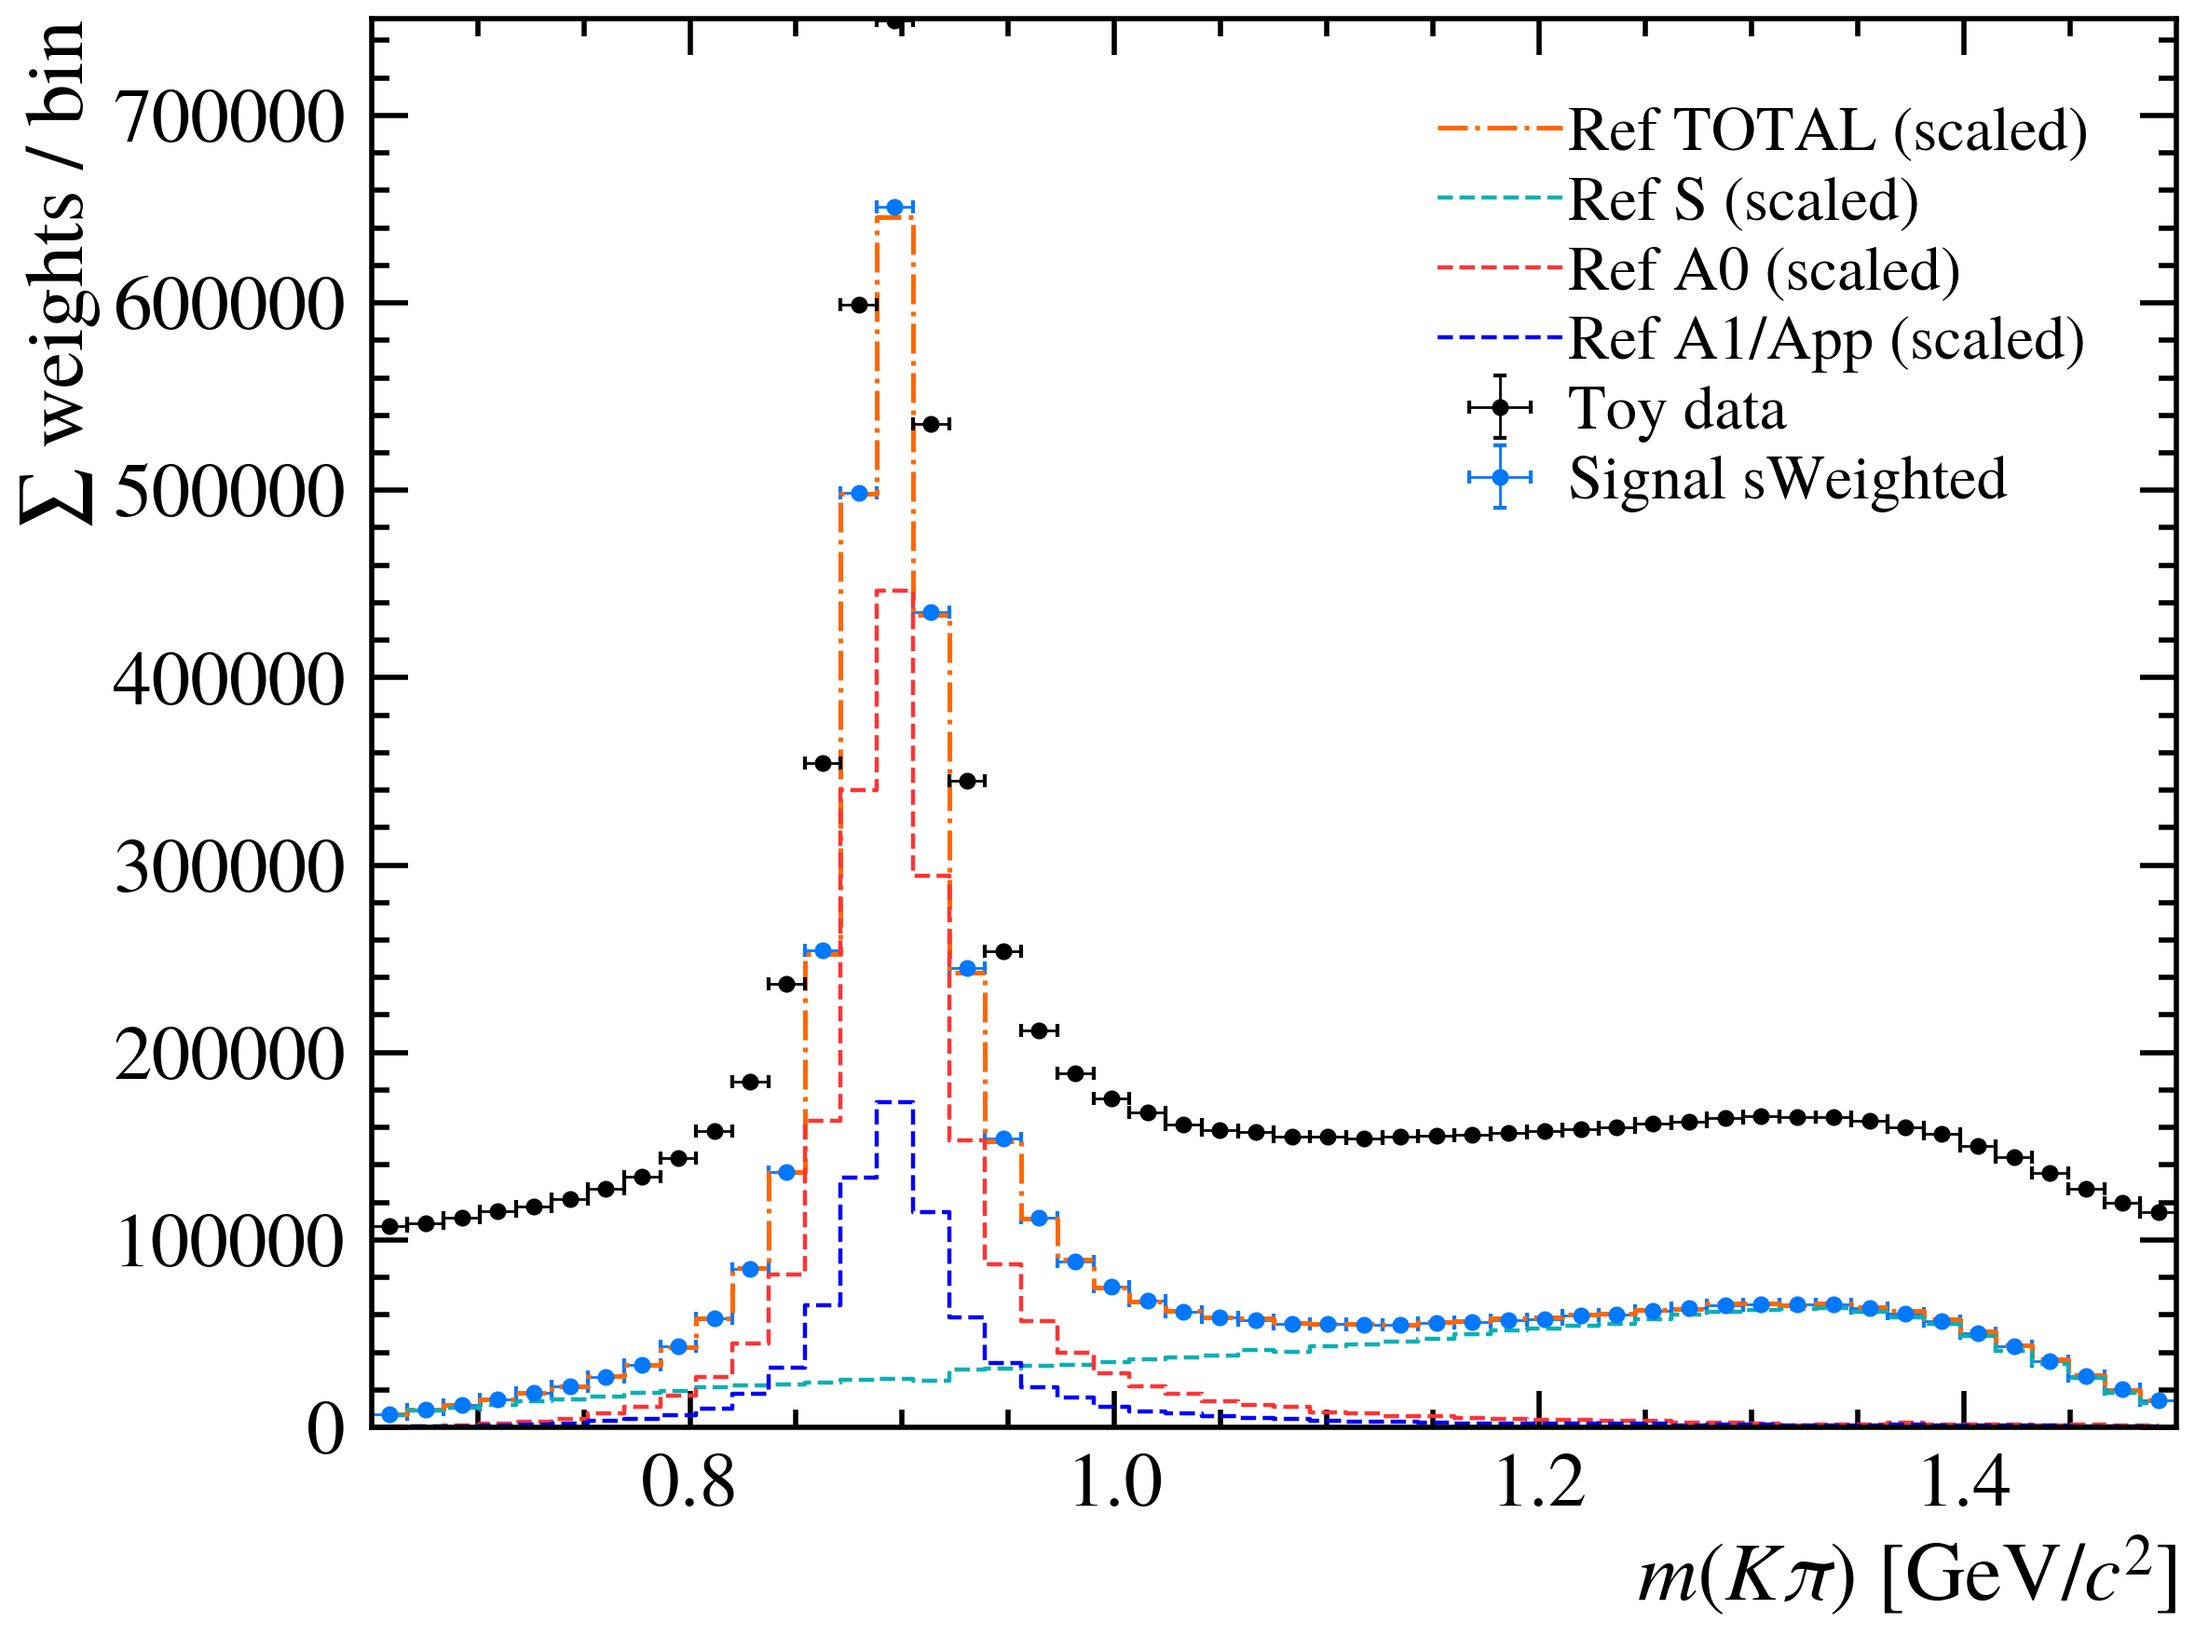
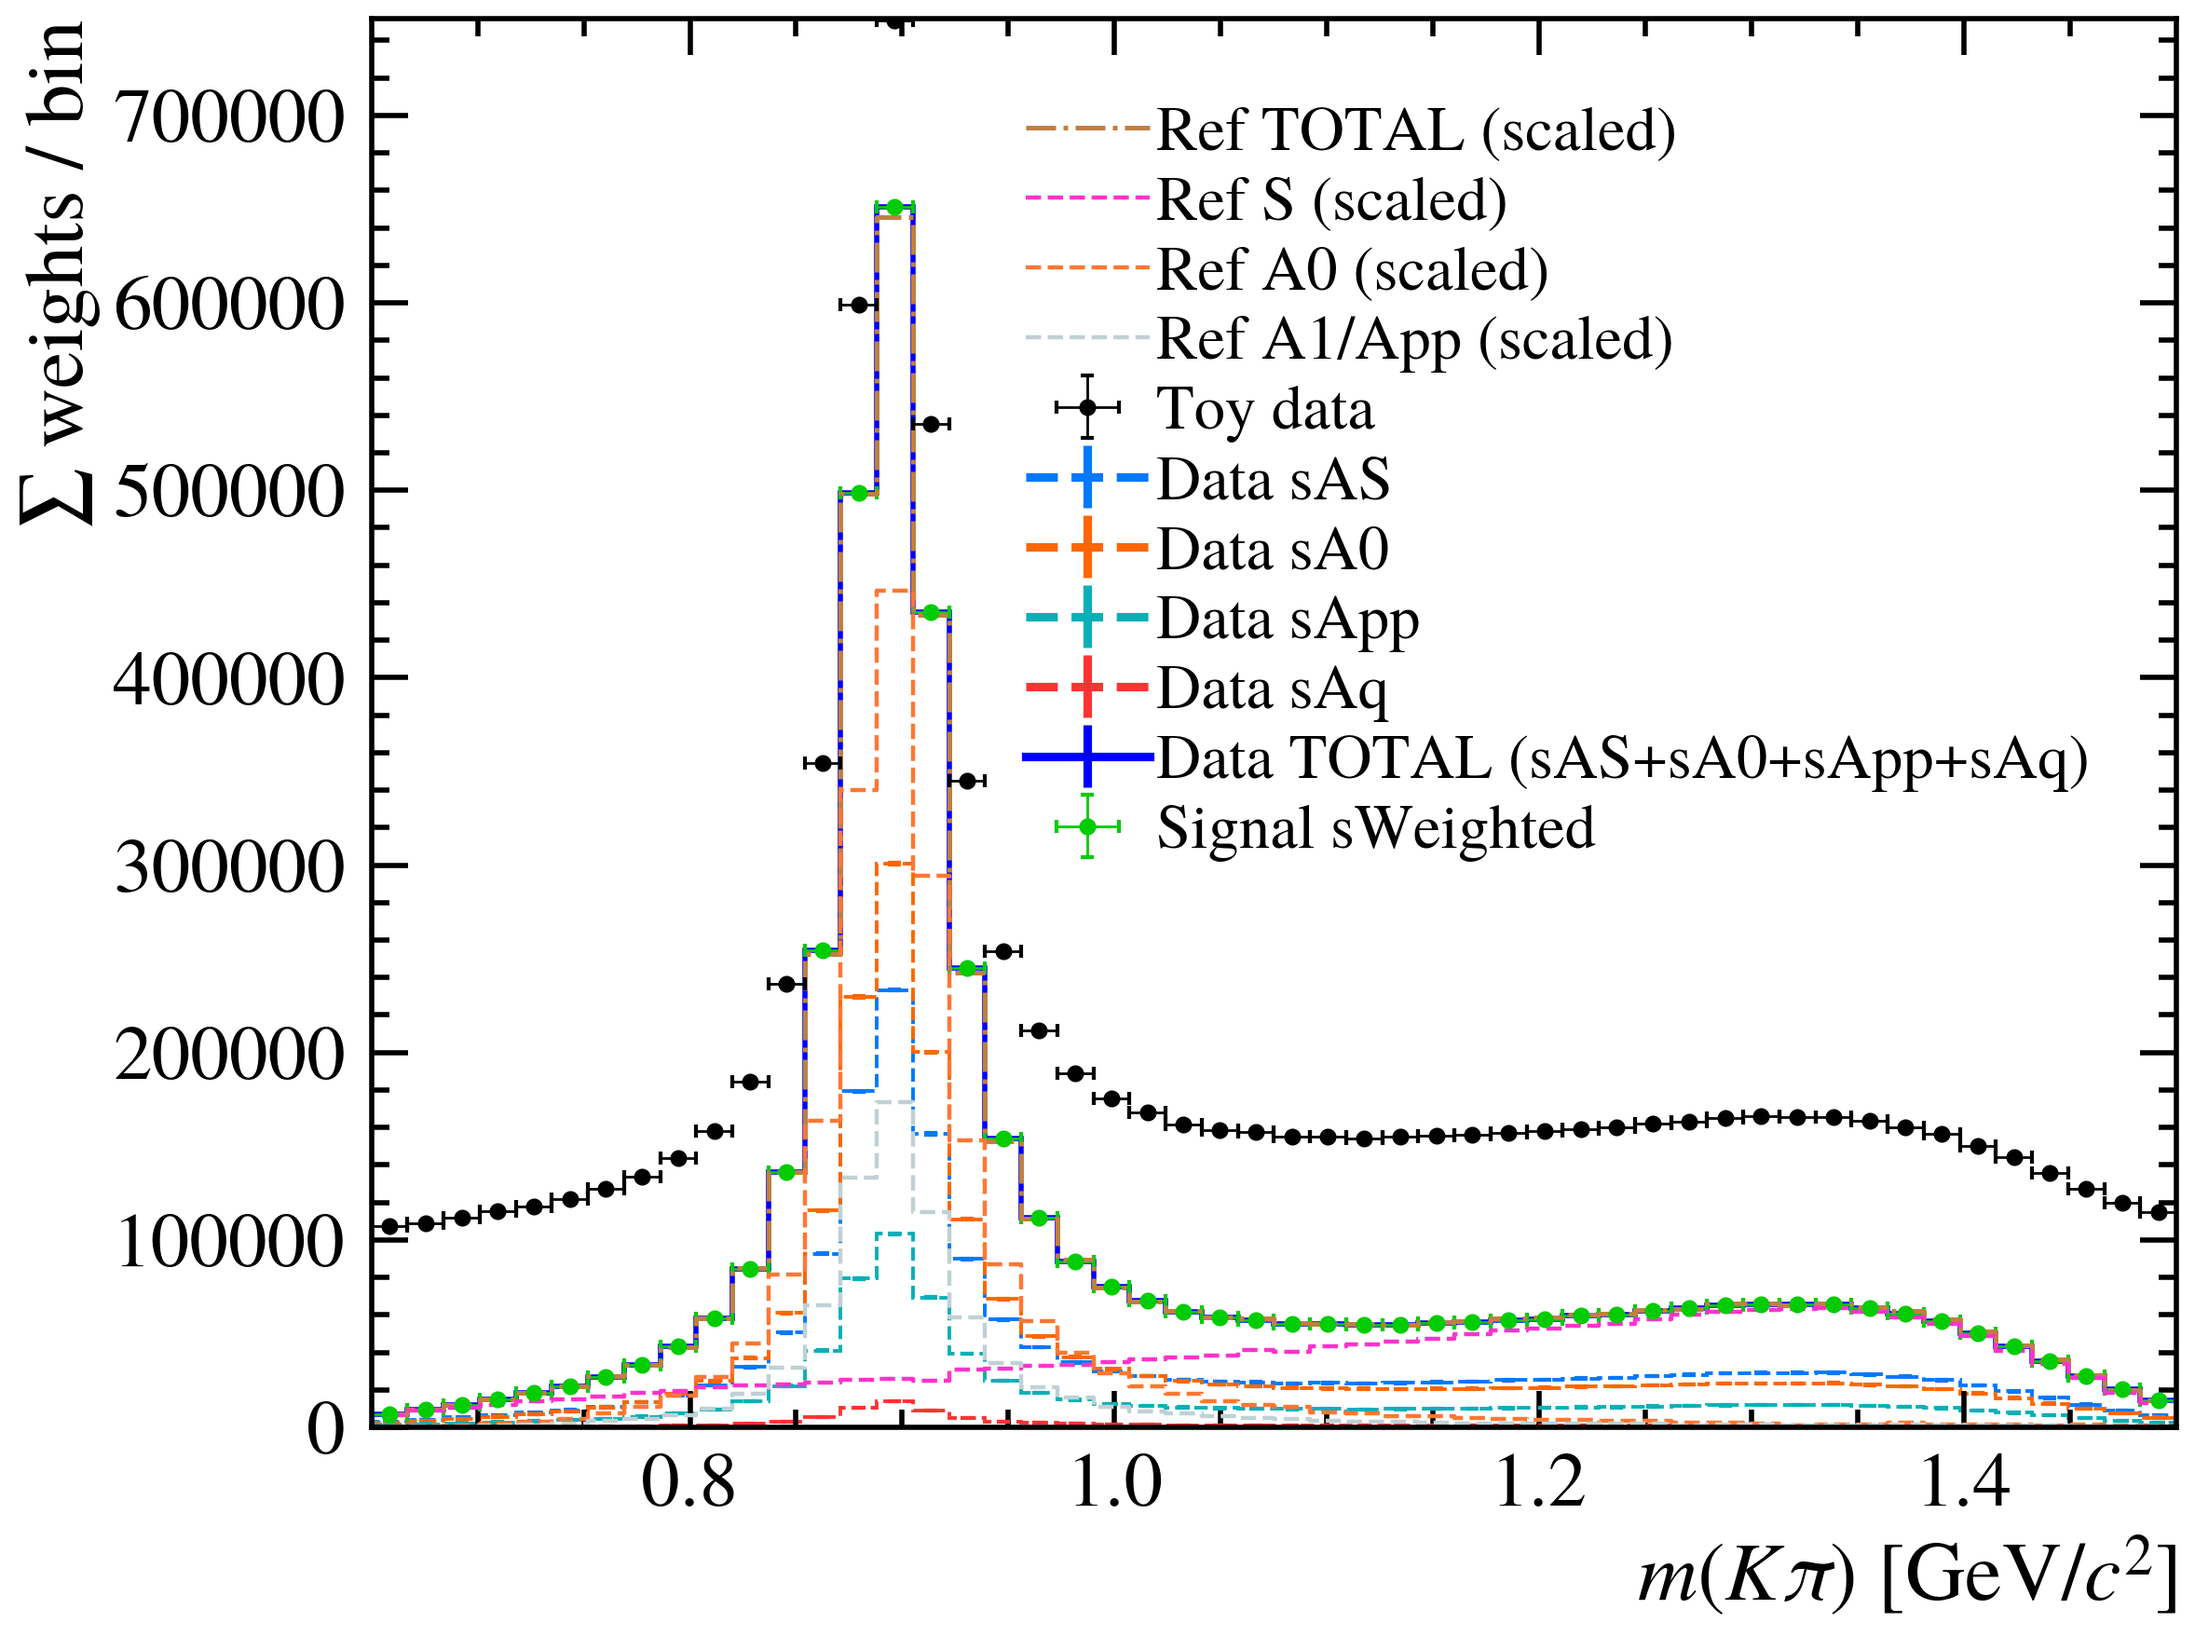
Fix component signal-weight partitioning and update plots

diff --git a/scripts/angularfitter_masssweights.py b/scripts/angularfitter_masssweights.py
@@ -11,6 +11,7 @@ import mypdfs  # Custom pdfs
 import angularfunctions as af  # Angular functions
 import h5py
 import os
+# from hepstats.splot import compute_sweights  # For sWeights computation
 
 # Makes nice default plots
 import mplhep
@@ -21,6 +22,44 @@ zfit.settings.set_seed(0)
 zfit.settings.set_verbosity(10)
 
 import pandas as pd
+
+def eval_pdf(model, x, params=None, allow_extended=False):
+    """Compute pdf of model at a given point x and for given parameters values"""
+
+    if params is None:
+        params = {}
+
+    def pdf(model, x):
+        ret = model.ext_pdf(x) if model.is_extended and allow_extended else model.pdf(x)
+
+        return np.array(ret)
+
+    for param in model.get_params():
+        if param in params:
+            value = params[param]["value"]
+            param.set_value(value)
+    return pdf(model, x)
+
+
+def compute_sweights(model, x, weights=None):
+    if weights is None:
+        weights = np.ones(len(x))
+
+    models = model.get_models()
+    yields = [m.get_yield() for m in models]
+
+    # p = np.vstack([np.array(m) for m in models]).T
+    # Nx = np.array(model.ext_pdf(data))*weights
+    p = np.vstack([eval_pdf(m, x)*weights for m in models]).T
+    Nx = eval_pdf(model, x, allow_extended=True)*weights
+    pN = p / Nx[:, None]
+
+    Vinv = (pN).T.dot(pN)
+    V = np.linalg.inv(Vinv)
+
+    sweights = p.dot(V) / Nx[:, None]
+
+    return {y: sweights[:, i] for i, y in enumerate(yields)}
 
 def _pick_col(df, candidates, label):
     """Return first existing column name from candidates."""
@@ -531,6 +570,35 @@ while i < ntoys:
     print(result)
     result.update_params()
 
+    # --- Build per-event component fractions from angular model ---
+    xdata = data  # zfit.Data with cosh/cosl and event weights already attached
+
+    # component "extended contributions": Nk * pdf_k(x)
+    t_AS  = eval_pdf(pdfs[N_AS],  xdata) * float(N_AS.value())
+    t_A0  = eval_pdf(pdfs[N_A0],  xdata) * float(N_A0.value())
+    t_App = eval_pdf(pdfs[N_App], xdata) * float(N_App.value())
+    t_Aq  = eval_pdf(pdfs[N_Aq],  xdata) * float(N_Aq.value())
+
+    t_sum = t_AS + t_A0 + t_App + t_Aq
+    t_sum_safe = np.where(t_sum > 0, t_sum, 1.0)
+
+    f_AS  = t_AS  / t_sum_safe
+    f_A0  = t_A0  / t_sum_safe
+    f_App = t_App / t_sum_safe
+    f_Aq  = t_Aq  / t_sum_safe
+
+    # --- Partition the mass-fit signal sWeights (args.weight_branch) ---
+    wSig_mass = weights  # from ROOT branch
+
+    wSig_AS  = wSig_mass * f_AS
+    wSig_A0  = wSig_mass * f_A0
+    wSig_App = wSig_mass * f_App
+    wSig_Aq  = wSig_mass * f_Aq
+
+    # event-by-event sanity:
+    print("[check] mean(|sum - wSig|) =",
+        float(np.mean(np.abs((wSig_AS+wSig_A0+wSig_App+wSig_Aq) - wSig_mass))))
+
     # Check that the result is valid
     covmat = result.covariance()
     posdef = np.all(np.linalg.eigvals(covmat) > 0)
@@ -578,6 +646,27 @@ while i < ntoys:
     with open(outname, 'w') as yaml_file:
         yaml.dump(paramdict, yaml_file, default_flow_style=False)
 
+# Compute sWeights
+    try:
+        sweights = compute_sweights(pdfsweights, data)
+    except Exception as e:
+        print(e)
+        print("Problem with massfit sweights.")
+        continue
+
+    # Sanity check
+    diff = Nsig.value()-N_A0.value()-N_App.value()-N_Aq.value()-N_AS.value()
+    assert (np.isclose(diff, 0, atol=1e-2))
+
+    sApp, sA0, sAS, sAq = sweights[N_App], sweights[N_A0], sweights[N_AS], sweights[N_Aq]
+
+    # Print the integrals after computing sWeights
+    print("[check] sums:",
+        "sum(sAS)", float(np.sum(sAS)), "N_AS", float(N_AS.value()),
+        "sum(sA0)", float(np.sum(sA0)), "N_A0", float(N_A0.value()),
+        "sum(sApp)", float(np.sum(sApp)), "N_App", float(N_App.value()),
+        "sum(sAq)", float(np.sum(sAq)), "N_Aq", float(N_Aq.value()))
+    print("[check] total sum sweights", float(np.sum(sAS+sA0+sApp+sAq)), "Nsig", float(Nsig.value()))
 
     # Save the pulls for toys
     if args.toy:
@@ -655,6 +744,28 @@ while i < ntoys:
                 H.fill(xplot, weight=wSig_plot)
             mplhep.histplot(H, color='black', histtype='errorbar', label='Toy data', xerr=True, yerr=True, marker='.', zorder=20)
 
+            # component histograms from sweights
+            H_AS = hist.Hist(hist.axis.Regular(nbins, mi, ma, underflow=False, overflow=False), storage=hist.storage.Weight())
+            H_A0 = hist.Hist(hist.axis.Regular(nbins, mi, ma, underflow=False, overflow=False), storage=hist.storage.Weight())
+            H_App = hist.Hist(hist.axis.Regular(nbins, mi, ma, underflow=False, overflow=False), storage=hist.storage.Weight())
+            H_Aq = hist.Hist(hist.axis.Regular(nbins, mi, ma, underflow=False, overflow=False), storage=hist.storage.Weight())
+
+            vals = datatoy[vkey].to_numpy(dtype=float)
+
+            H_AS.fill(vals, weight=wSig_AS)
+            H_A0.fill(vals, weight=wSig_A0)
+            H_App.fill(vals, weight=wSig_App)
+            H_Aq.fill(vals, weight=wSig_Aq)
+
+            mplhep.histplot(H_AS,  histtype="step", linewidth=1.4, linestyle="--", label="Data sAS")
+            mplhep.histplot(H_A0,  histtype="step", linewidth=1.4, linestyle="--", label="Data sA0")
+            mplhep.histplot(H_App, histtype="step", linewidth=1.4, linestyle="--", label="Data sApp")
+            mplhep.histplot(H_Aq,  histtype="step", linewidth=1.4, linestyle="--", label="Data sAq")
+
+            data_total = wSig_AS + wSig_A0 + wSig_App + wSig_Aq
+            H_tot = hist.Hist(hist.axis.Regular(nbins, mi, ma, underflow=False, overflow=False), storage=hist.storage.Weight())
+            H_tot.fill(vals, weight=data_total)
+            mplhep.histplot(H_tot, histtype="step", linewidth=2.0, label="Data TOTAL (sAS+sA0+sApp+sAq)")
 
             # Weighted histogram using *signal* mass sWeights only
             Hw = hist.Hist(
@@ -712,6 +823,10 @@ while i < ntoys:
     # Save the sWeighted data
     datas = data.to_pandas()
     datas["wSig"] = datatoy[args.weight_branch].to_numpy(dtype=float)
+    datas['wS'] = sAS
+    datas['wApp'] = sApp
+    datas['wA0'] = sA0
+    datas['wAq'] = sAq
 
     datas['mKpi'] = datatoy['mKpi'].values
     datas['q2'] = datatoy['q2'].values
